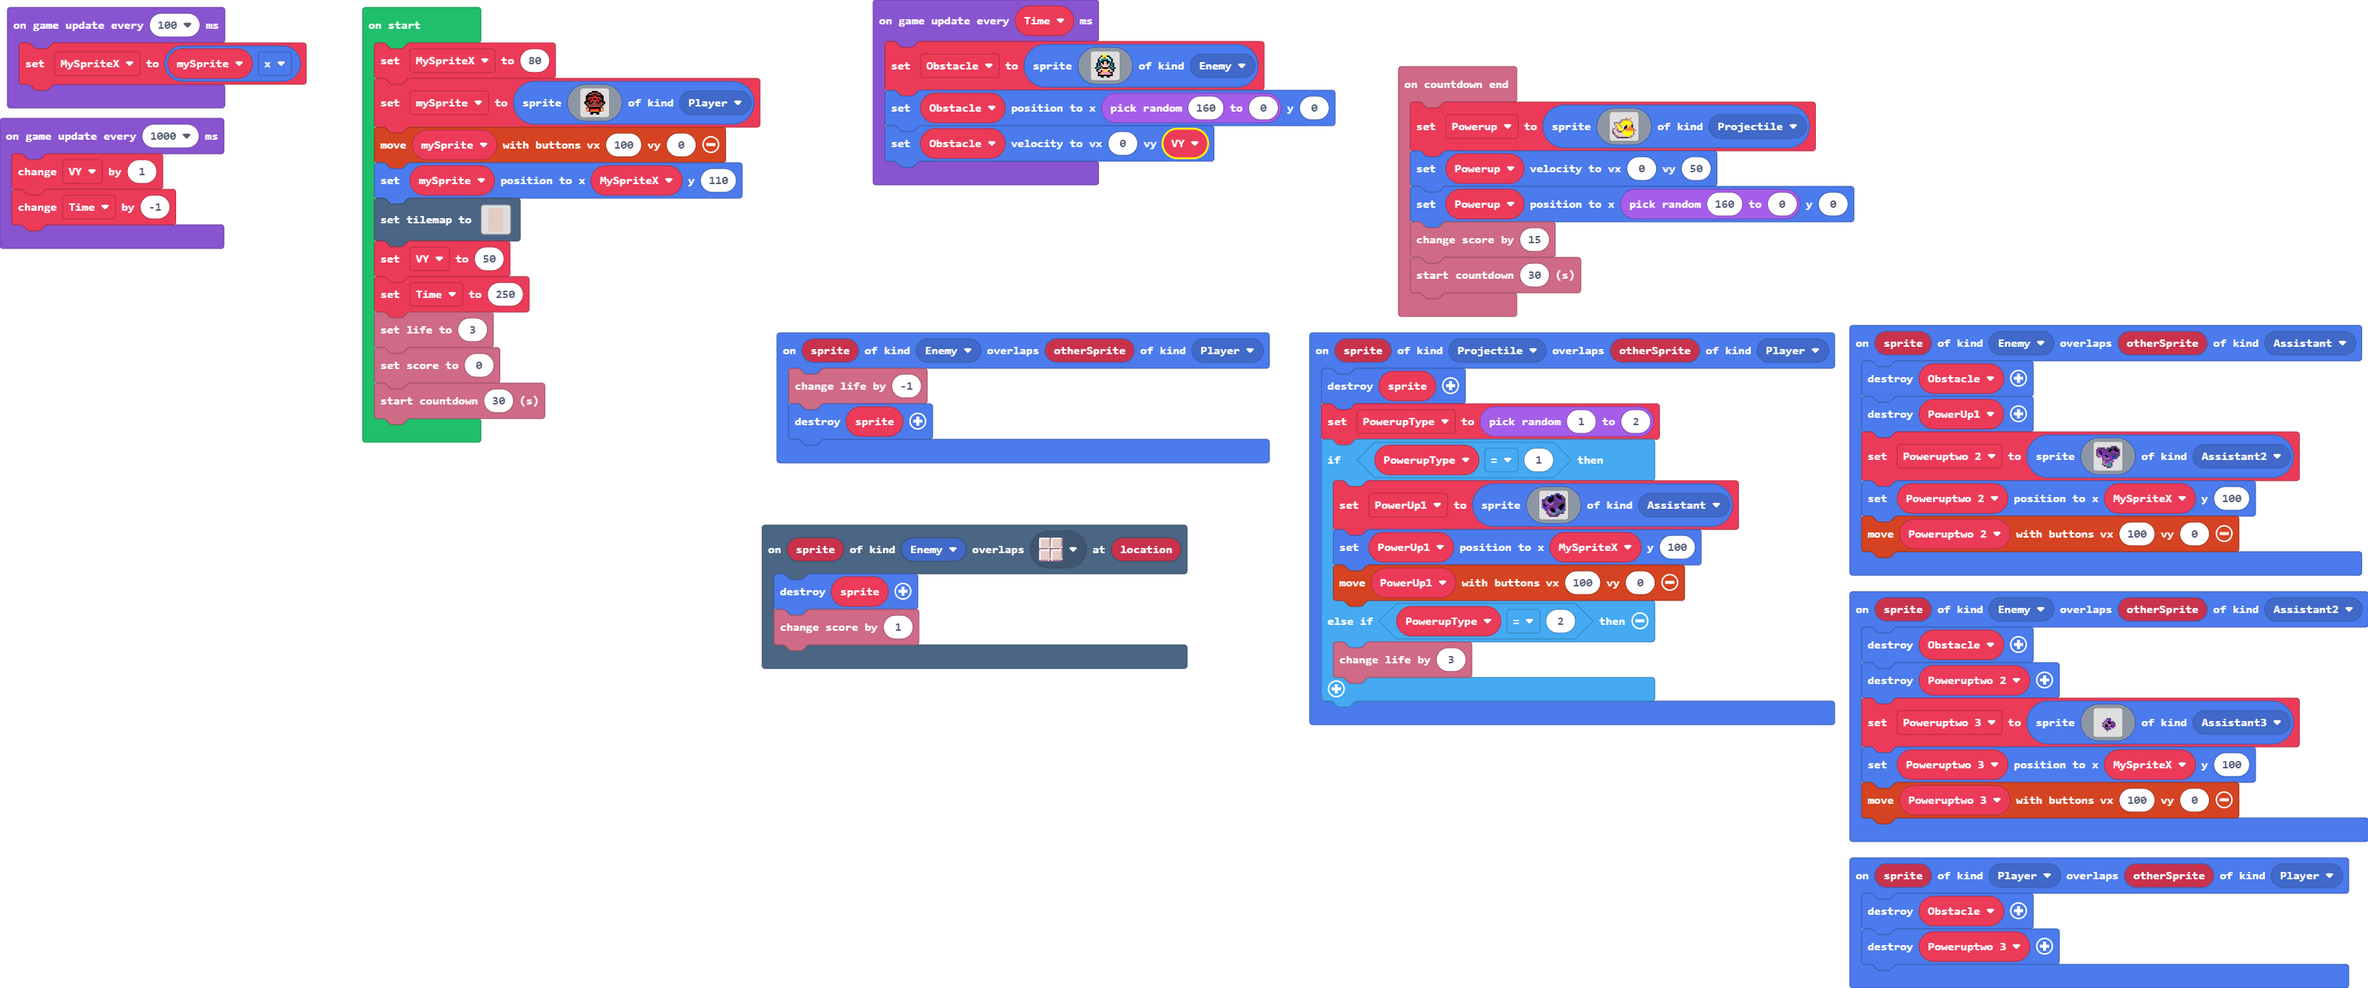
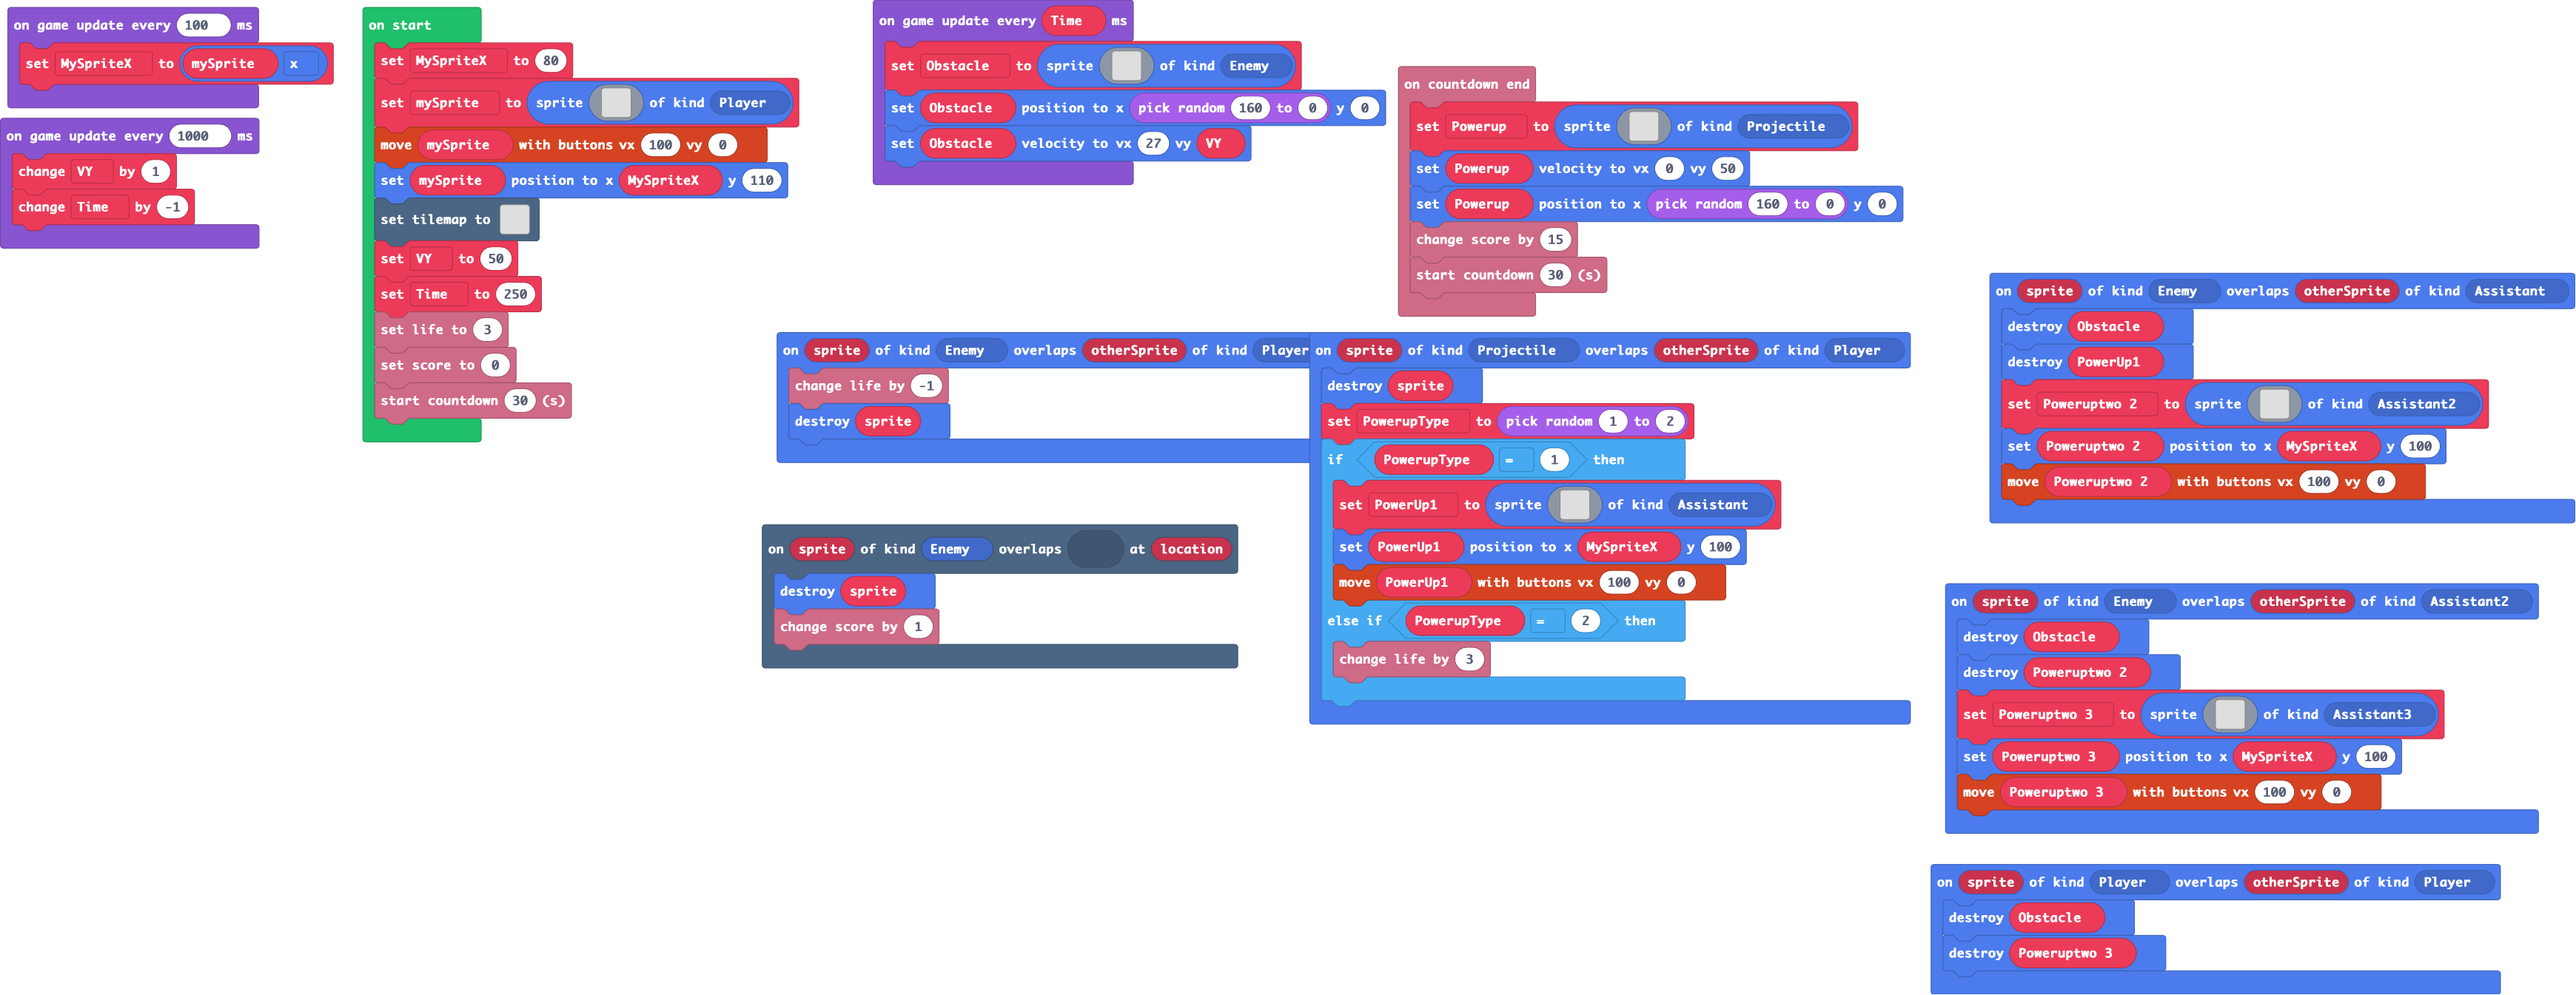
Increased thing

Changed region(s): [[0.0, 0.0, 1.0, 1.0], [0.9688, 0.9513, 1.0, 1.0]]

diff --git a/main.ts b/main.ts
@@ -191,7 +191,7 @@ game.onUpdateInterval(Time, function () {
         . . . . . f f . . f f . . . . . 
         `, SpriteKind.Enemy)
     Obstacle.setPosition(randint(160, 0), 0)
-    Obstacle.setVelocity(0, VY)
+    Obstacle.setVelocity(27, VY)
 })
 game.onUpdateInterval(100, function () {
     MySpriteX = mySprite.x
